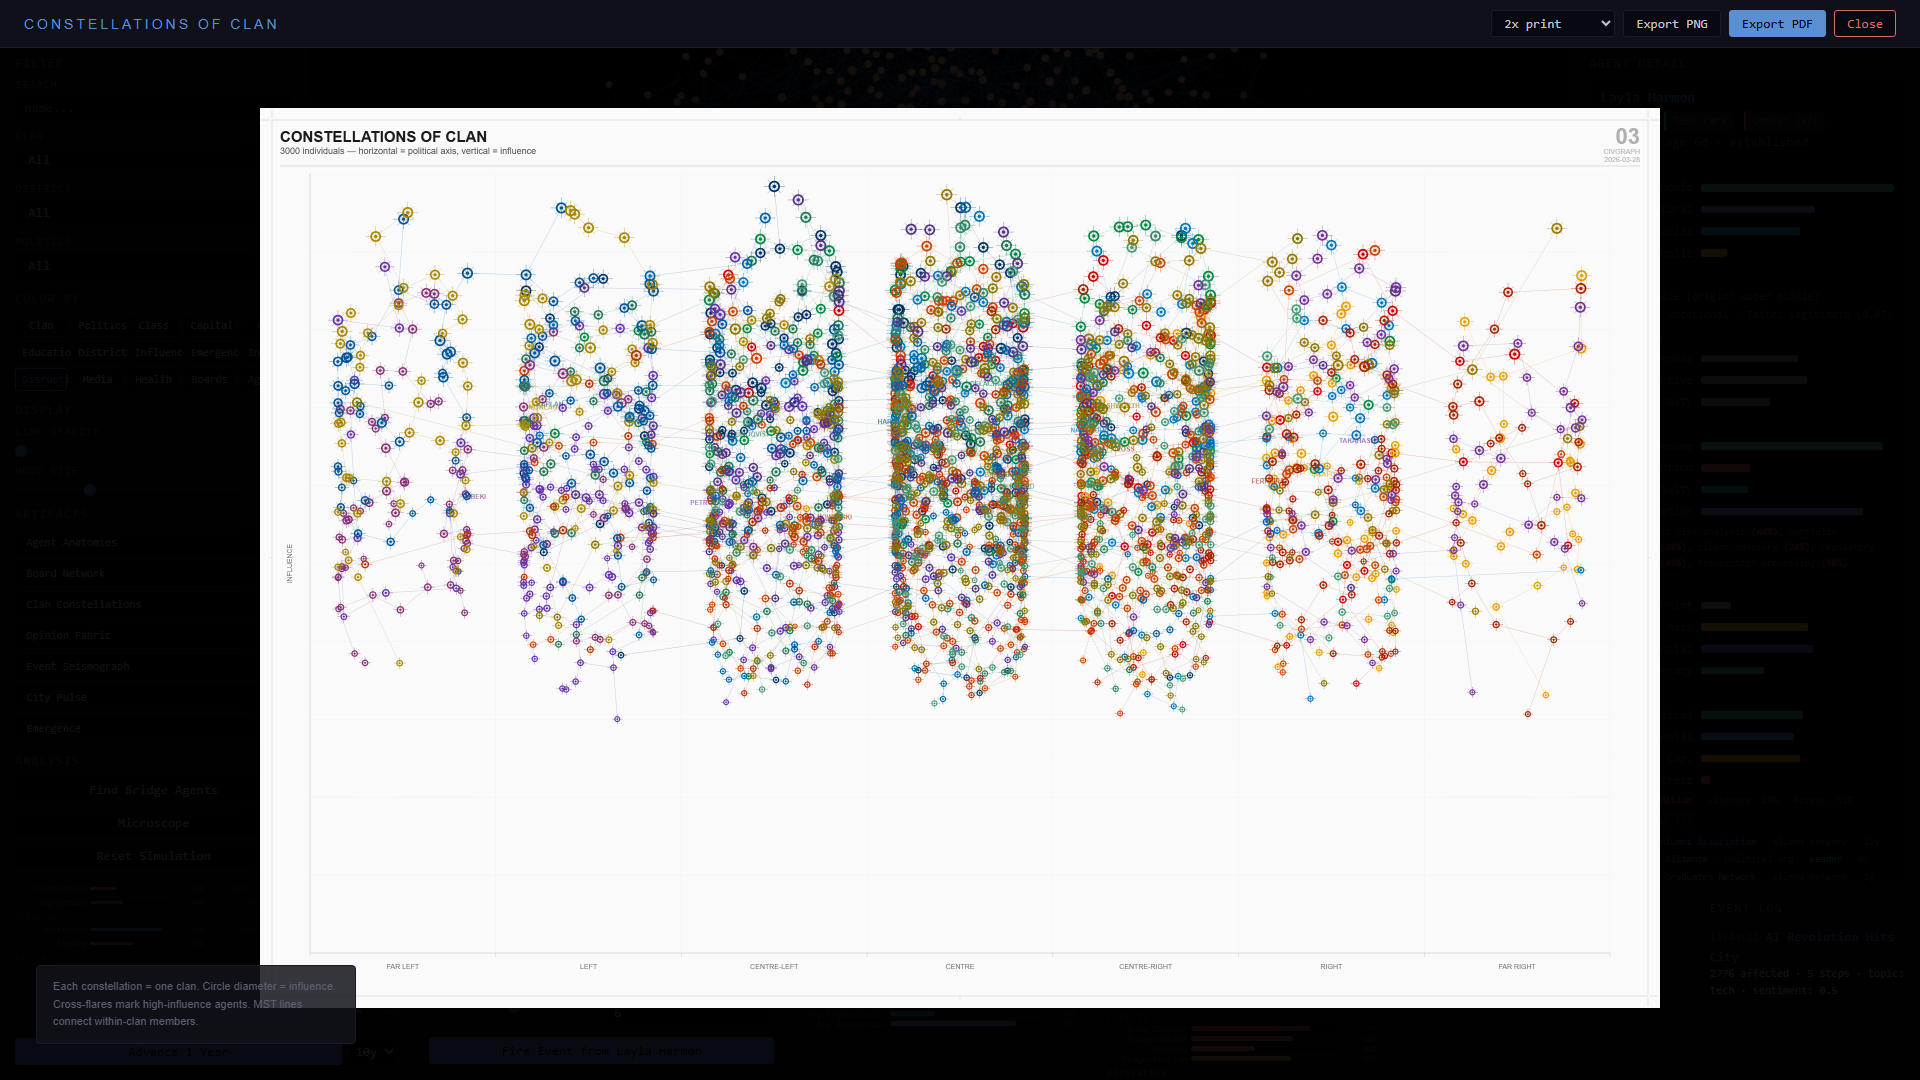
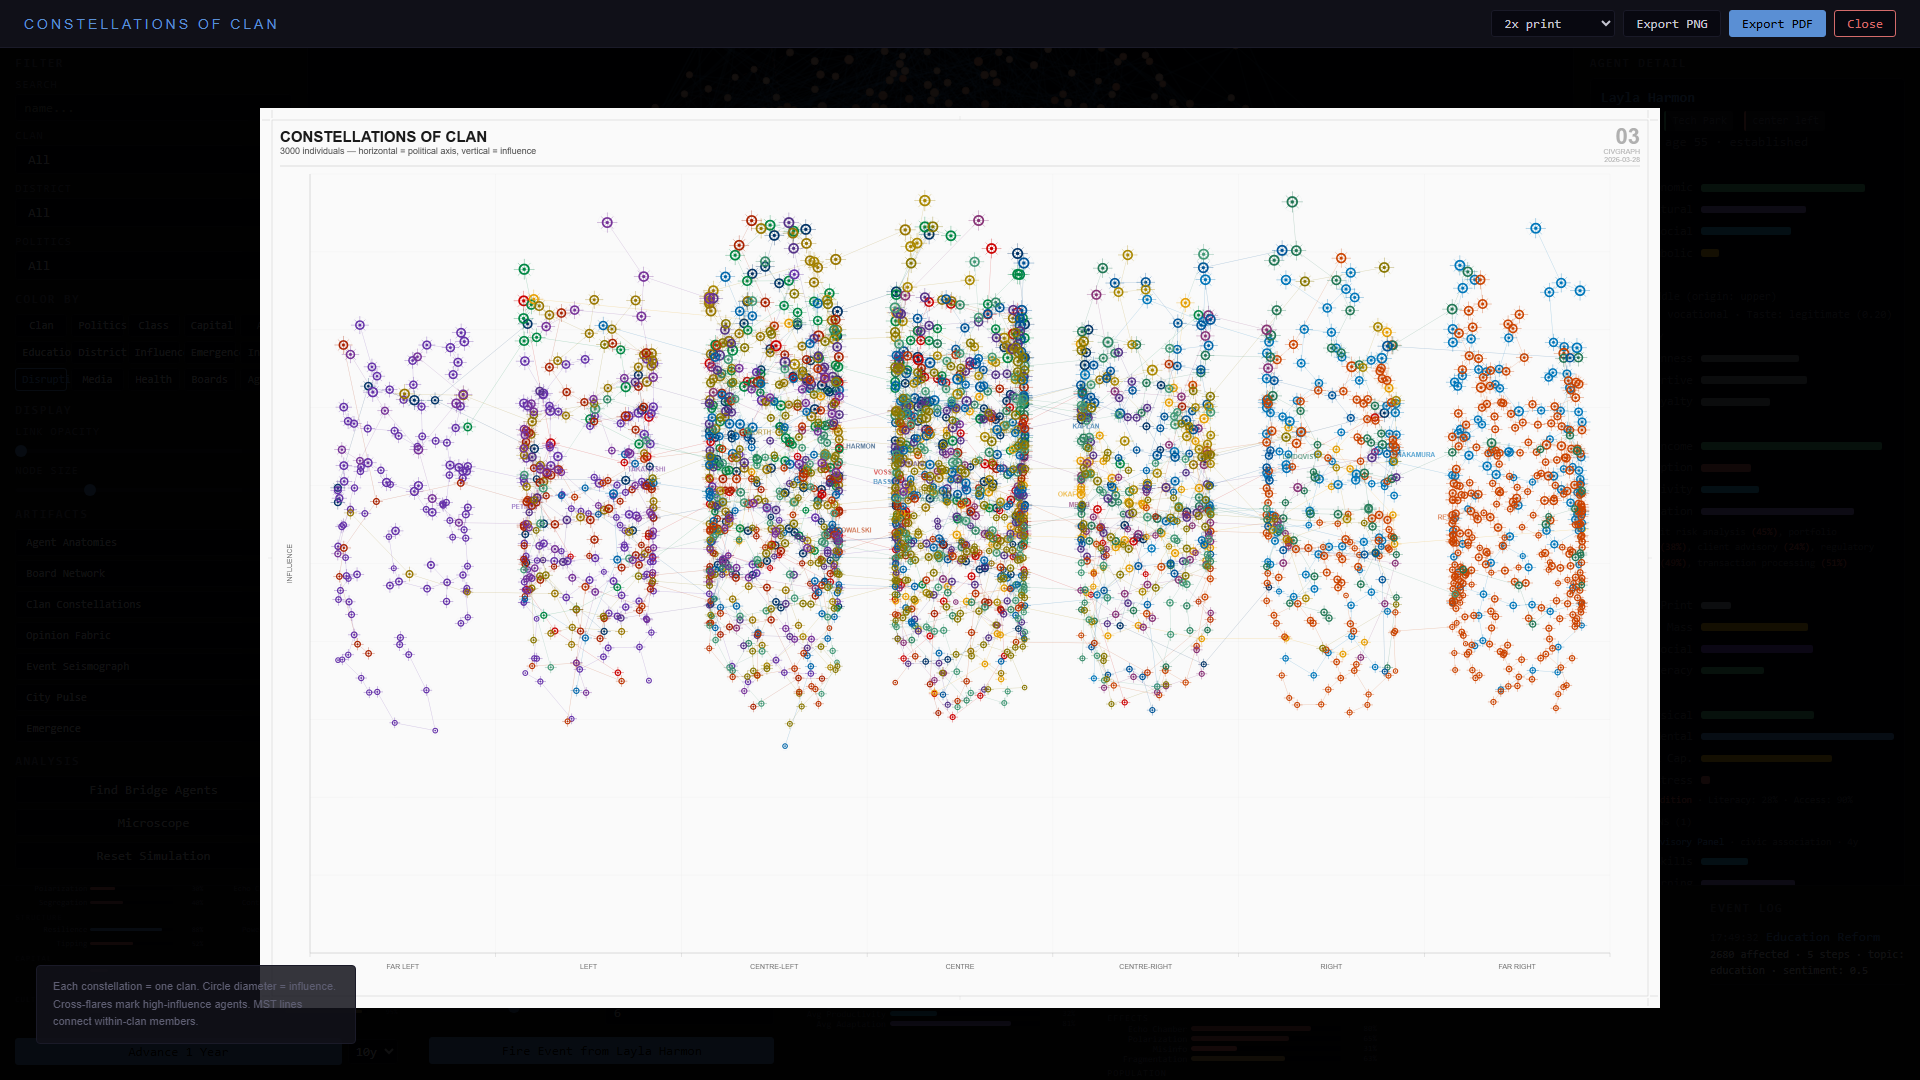
Rich event screenshots: 8 events via API, artifacts fully populated
Updated screenshot.py to fire 7 diverse events via aiohttp API
before opening the browser (tech_boom, housing_crisis, protest,
scandal, election, cultural_event, crisis) + 1 more via UI.
This ensures seismograph shows 8 waveforms, heatmap has 8 opinion
topics, City Pulse has 40-year evolution, emergence sparklines
have full history.

Seismograph now shows proper multi-event cascade visualization
with green (positive) and red (negative) sentiment distinction.
Heatmap shows crosshatch opinion patterns across 8 topics x 20
clans.

Changed region(s): [[0.1562, 0.1833, 0.8438, 0.6722], [0.2812, 0.1833, 0.3125, 0.2139], [0.1875, 0.1833, 0.2188, 0.2139]]

diff --git a/screenshot.py b/screenshot.py
@@ -45,8 +45,48 @@ ARTIFACTS = [
 ]
 
 
+async def _fire_rich_events(url: str):
+    """Fire diverse events via API to populate all artifact panels."""
+    import aiohttp
+    async with aiohttp.ClientSession() as session:
+        # Get agent IDs spread across the graph
+        async with session.get(f"{url}/api/graph") as r:
+            graph = await r.json()
+        nodes = graph["nodes"]
+        ids = [nodes[i]["id"] for i in [0, 50, 150, 300, 500, 700, min(900, len(nodes)-1)]]
+
+        events = [
+            {"origin_agent": ids[0], "event_type": "tech_boom", "title": "AI Revolution Hits City", "topic": "tech", "sentiment": 0.7, "intensity": 0.8},
+            {"origin_agent": ids[1], "event_type": "housing_crisis", "title": "Rent Crisis Deepens", "topic": "real_estate", "sentiment": -0.6, "intensity": 0.7},
+            {"origin_agent": ids[2], "event_type": "protest", "title": "Climate March", "topic": "environment", "sentiment": 0.5, "intensity": 0.6, "political_bias": -2},
+            {"origin_agent": ids[3], "event_type": "scandal", "title": "Board Corruption Exposed", "topic": "governance", "sentiment": -0.8, "intensity": 0.9},
+            {"origin_agent": ids[4], "event_type": "election", "title": "City Election 2026", "topic": "governance", "sentiment": 0.3, "intensity": 0.7, "political_bias": 1},
+            {"origin_agent": ids[5], "event_type": "cultural_event", "title": "New Arts Quarter Opens", "topic": "arts", "sentiment": 0.6, "intensity": 0.5},
+            {"origin_agent": ids[6], "event_type": "crisis", "title": "Economic Downturn", "topic": "finance", "sentiment": -0.5, "intensity": 0.6},
+        ]
+        for evt in events:
+            async with session.post(f"{url}/api/event", json=evt) as r:
+                await r.json()
+
+        # Advance 25 years
+        for _ in range(5):
+            async with session.post(f"{url}/api/tick", json={"years": 5}) as r:
+                d = await r.json()
+        print(f"  Events fired: {len(events)}, advanced to year {d.get('current_year', '?')}")
+
+
 async def capture_all(port: int = 8420, do_tick: bool = True):
     url = f"http://127.0.0.1:{port}"
+
+    # Pre-populate rich event data via API before opening browser
+    if do_tick:
+        try:
+            print("Firing rich events via API...")
+            await _fire_rich_events(url)
+        except ImportError:
+            print("  (aiohttp not available, will fire events via UI)")
+        except Exception as e:
+            print(f"  (API events failed: {e}, will fire via UI)")
 
     async with async_playwright() as p:
         browser = await p.chromium.launch()
@@ -54,8 +94,8 @@ async def capture_all(port: int = 8420, do_tick: bool = True):
 
         print(f"Loading {url}...")
         await page.goto(url, wait_until="networkidle")
-        await page.wait_for_selector("#graph-svg", timeout=30000)
-        await asyncio.sleep(8)
+        await page.wait_for_selector("#graph-svg", timeout=60000)
+        await asyncio.sleep(10)
 
         # ── Initial state ──────────────────────────────────────────
         print("01 - Main graph...")
@@ -70,10 +110,10 @@ async def capture_all(port: int = 8420, do_tick: bool = True):
             await page.screenshot(path=f"{DOCS}/03-agent-detail.png")
 
         if do_tick:
-            # ── Fire event ─────────────────────────────────────────
-            await page.fill("#event-title", "AI Revolution Hits City")
-            await page.select_option("#event-type", "tech_boom")
-            await page.select_option("#event-topic", "tech")
+            # ── Fire one more event via UI for propagation screenshot ─
+            await page.fill("#event-title", "Education Reform")
+            await page.select_option("#event-type", "education_reform")
+            await page.select_option("#event-topic", "education")
             await page.click("#btn-fire-event")
             await asyncio.sleep(6)
             print("04 - Event propagation...")
@@ -88,11 +128,11 @@ async def capture_all(port: int = 8420, do_tick: bool = True):
             await asyncio.sleep(3)
             await page.screenshot(path=f"{DOCS}/06-bridge-agents.png")
 
-            # ── Advance 5 years ────────────────────────────────────
+            # ── Advance 5 more years ──────────────────────────────
             print("07 - Environment tick (5y)...")
             await page.select_option("#tick-years", "5")
             await page.click("#btn-tick")
-            await asyncio.sleep(6)
+            await asyncio.sleep(8)
             await page.click('button[data-mode="capital"]')
             await asyncio.sleep(1)
             await page.screenshot(path=f"{DOCS}/07-environment-tick.png")
@@ -150,28 +190,21 @@ async def capture_artifacts_only(port: int = 8420):
     """Capture only artifact screenshots (faster, assumes server is running)."""
     url = f"http://127.0.0.1:{port}"
 
+    # Fire rich events via API first
+    try:
+        print("Firing rich events via API...")
+        await _fire_rich_events(url)
+    except Exception as e:
+        print(f"  (API events failed: {e}, artifacts may look sparse)")
+
     async with async_playwright() as p:
         browser = await p.chromium.launch()
         page = await browser.new_page(viewport=VP_MAIN)
 
         print(f"Loading {url}...")
         await page.goto(url, wait_until="networkidle")
-        await page.wait_for_selector("#graph-svg", timeout=30000)
-        await asyncio.sleep(6)
-
-        # Fire event + tick to populate data
-        circles = await page.query_selector_all(".node circle")
-        if len(circles) > 5:
-            await circles[5].click()
-            await asyncio.sleep(1)
-        await page.fill("#event-title", "AI Revolution")
-        await page.select_option("#event-type", "tech_boom")
-        await page.select_option("#event-topic", "tech")
-        await page.click("#btn-fire-event")
-        await asyncio.sleep(5)
-        await page.select_option("#tick-years", "5")
-        await page.click("#btn-tick")
-        await asyncio.sleep(6)
+        await page.wait_for_selector("#graph-svg", timeout=60000)
+        await asyncio.sleep(8)
 
         for artifact, filename in ARTIFACTS:
             print(f"{filename}...")
